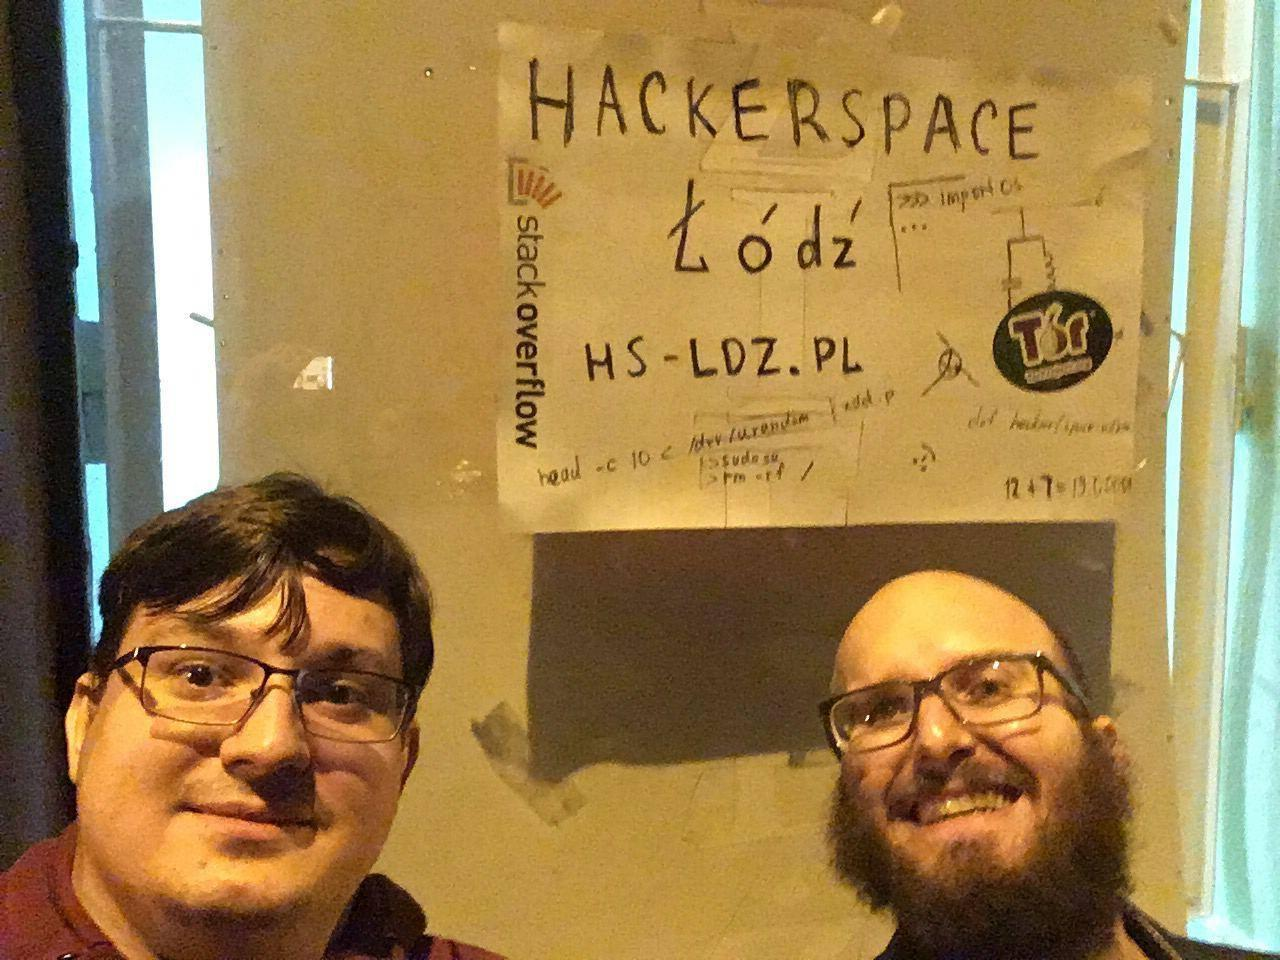
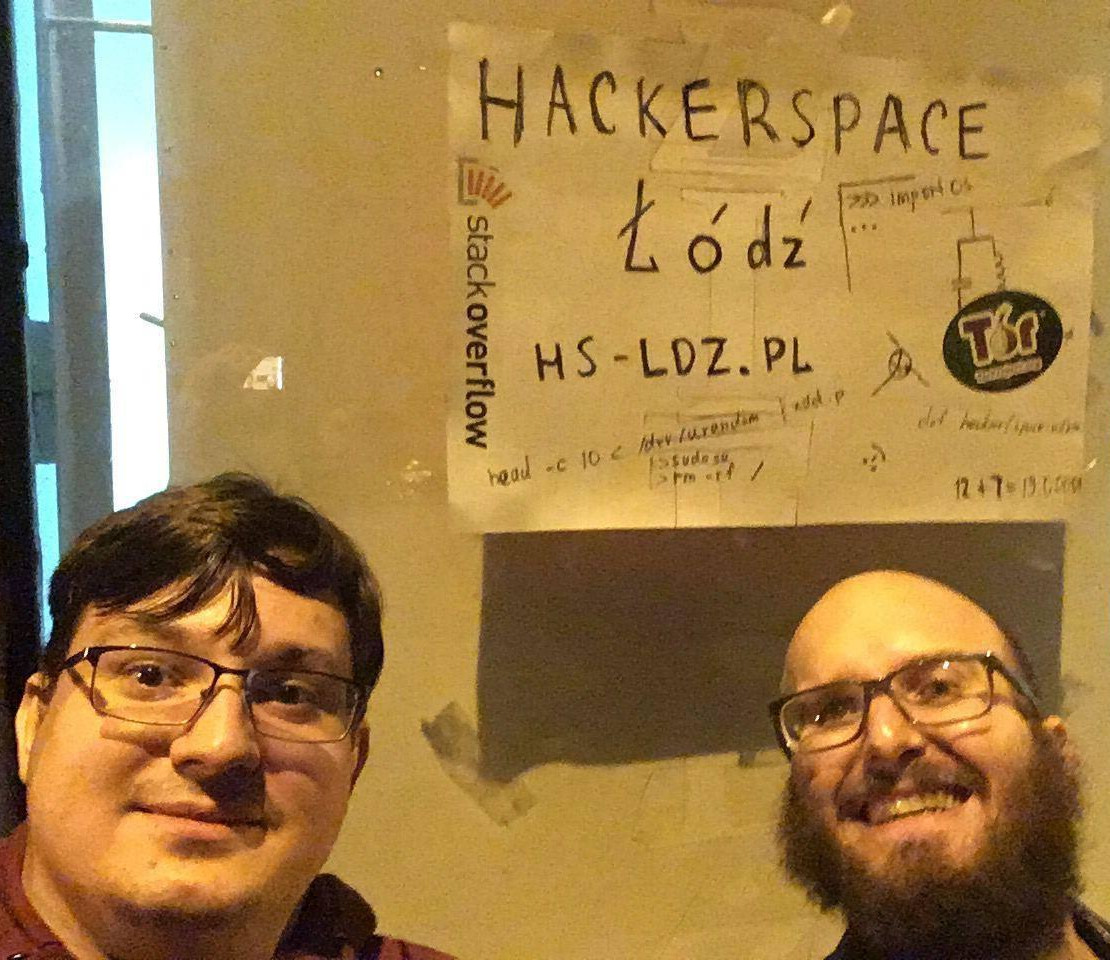
Zmniejsz obrazek, wykadruj i przypnij do góry. Dodaj margines.

diff --git a/index.html b/index.html
@@ -56,7 +56,7 @@
   <li class="nav-item"><a class="nav-link active" id="lokalizacja-tab" data-toggle="tab" href="#lokalizacja" role="tab" aria-controls="lokalizacja" aria-selected="true">Lokalizacja</a></li>
   <li class="nav-item"><a class="nav-link" id="zdjecia-tab" data-toggle="tab" href="#zdjecia" role="tab" aria-controls="zdjecia" aria-selected="true">Zdjęcie</a></li>
 </ul>
-<div class="tab-content" id="myTabContent">
+<div class="tab-content" id="myTabContent" style="margin: 1em">
   <div class="tab-pane fade show active" id="lokalizacja" role="tabpanel" aria-labelledby="lokalizacja-tab">
 
     <p class="lead">Łódzki Hackerspace znajduje się przy ul.&nbsp;Zielonej&nbsp;30:</p>
@@ -71,7 +71,7 @@
   </div>
 
   <div class="tab-pane fade" id="zdjecia" role="tabpanel" aria-labelledby="zdjecia-tab">
-  <img src="photo_2020-09-27_17-11-19.jpg" width="590" height="450" style="max-width: 80%">
+  <img src="photo_2020-09-27_17-11-19.jpg" width="590" height="450" style="max-width: 80%; object-fit: scale-down; object-position: top">
   </div>
 
 </div>
